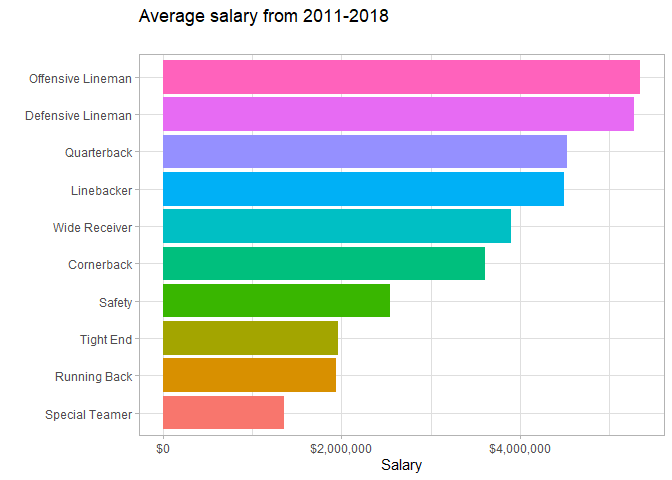
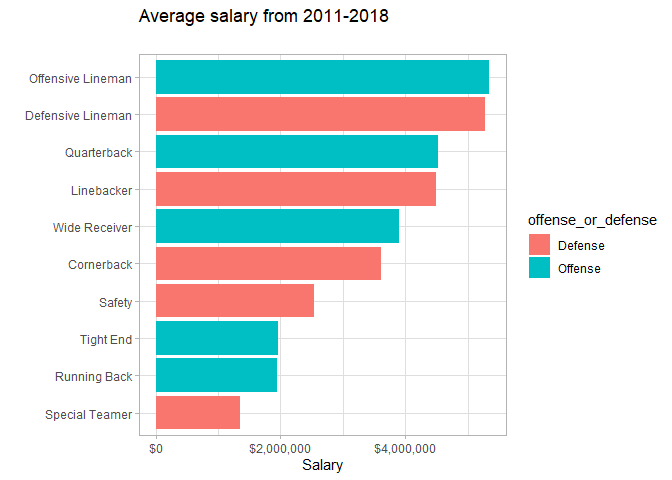
Add line plots showing salary trends by position

diff --git a/nfl-salaries/nfl_salaries.md b/nfl-salaries/nfl_salaries.md
@@ -1,47 +1,15 @@
 
   - [Which positions make the most?](#which-positions-make-the-most)
-  - [How are salaries trending over time for different
-    positions?](#how-are-salaries-trending-over-time-for-different-positions)
-  - [How is the trend different for offensive vs defensive
-    players?](#how-is-the-trend-different-for-offensive-vs-defensive-players)
-  - [](#section)
+  - [How are salaries trending over
+    time?](#how-are-salaries-trending-over-time)
 
 ``` r
+library(rlang)
 library(tidyverse)
-```
-
-    ## -- Attaching packages ------------------------------------------------------------------ tidyverse 1.2.1 --
-
-    ## v ggplot2 3.2.1     v purrr   0.3.3
-    ## v tibble  2.1.3     v dplyr   0.8.3
-    ## v tidyr   1.0.0     v stringr 1.4.0
-    ## v readr   1.3.1     v forcats 0.4.0
-
-    ## -- Conflicts --------------------------------------------------------------------- tidyverse_conflicts() --
-    ## x dplyr::filter() masks stats::filter()
-    ## x dplyr::lag()    masks stats::lag()
-
-``` r
 library(here)
-```
-
-    ## here() starts at D:/Documents/Learning/tidy-tuesdays
-
-``` r
 library(readxl)
 library(scales)
 ```
-
-    ## 
-    ## Attaching package: 'scales'
-
-    ## The following object is masked from 'package:purrr':
-    ## 
-    ##     discard
-
-    ## The following object is masked from 'package:readr':
-    ## 
-    ##     col_factor
 
 ``` r
 theme_set(theme_light())
@@ -51,7 +19,13 @@ theme_set(theme_light())
 nfl_salaries_raw <- read_xlsx(here("nfl-salaries", "nfl_salaries.xlsx"))
 
 nfl_salaries <- read_xlsx(here("nfl-salaries", "nfl_salaries.xlsx")) %>% 
-  pivot_longer(-year, names_to = "position", values_to = "salary")
+  pivot_longer(-year, names_to = "position", values_to = "salary") %>% 
+  mutate(offense_or_defense = case_when(position %in% c("Offensive Lineman",
+                                                        "Quarterback",
+                                                        "Wide Receiver",
+                                                        "Tight End",
+                                                        "Running Back") ~ "Offense",
+                                        TRUE ~ "Defense"))
 ```
 
 -----
@@ -60,35 +34,35 @@ nfl_salaries <- read_xlsx(here("nfl-salaries", "nfl_salaries.xlsx")) %>%
 
 ``` r
 nfl_salaries %>% 
-  group_by(position) %>% 
+  group_by(position, offense_or_defense) %>% 
   summarise(salary = mean(salary, na.rm = TRUE)) %>% 
+  ungroup() %>% 
   mutate(position = fct_reorder(position, salary)) %>% 
-  ggplot(aes(position, salary, fill = position)) + 
+  ggplot(aes(position, salary, fill = offense_or_defense)) + 
   geom_col() +
   scale_y_continuous(labels = dollar_format()) +
   coord_flip() +
   labs(title = "Average salary from 2011-2018", 
        subtitle = "",
        x = "",
-       y = "Salary") +
-  theme(legend.position = "none")
+       y = "Salary") 
 ```
 
 ![](nfl_salaries_files/figure-gfm/positional_salaries_overall-1.png)<!-- -->
 
 -----
 
-# How are salaries trending over time for different positions?
+# How are salaries trending over time?
 
 ``` r
 positional_trends <- nfl_salaries %>% 
-  group_by(year, position) %>% 
+  group_by(year, position, offense_or_defense) %>% 
   summarise(salary = mean(salary, na.rm = TRUE)) 
 ```
 
 ``` r
 overall_trend <- nfl_salaries %>% 
-  group_by(year) %>% 
+  group_by(year, offense_or_defense) %>% 
   summarise(salary = mean(salary, na.rm = TRUE))
 ```
 
@@ -98,20 +72,47 @@ ggplot() +
             mapping = aes(year, salary, color = position), 
             size = 1.5
             ) +
+  geom_point(data = positional_trends, 
+             mapping = aes(year, salary, color = position), 
+             size = 3.0
+            ) +
   geom_path(data = overall_trend, 
             mapping = aes(year, salary), 
-            linetype = "dotted",
+            linetype = "dashed",
             size = 1.5
             ) +
-  scale_y_continuous(label = dollar_format())
+  scale_y_continuous(label = dollar_format()) +
+  labs(title = "Salary trends over time",
+       x = "Year",
+       y = "Average salary")
 ```
 
 ![](nfl_salaries_files/figure-gfm/positional_trends_together-1.png)<!-- -->
 
+And another way to show that same info.
+
+``` r
+positional_trends %>% 
+  ggplot(aes(year, salary, color = offense_or_defense)) + 
+  geom_line() +
+  geom_point() + 
+  facet_wrap(~ position) +
+  scale_y_continuous(labels = dollar_format())
+```
+
+![](nfl_salaries_files/figure-gfm/positional_trends_faceted-1.png)<!-- -->
+
+Grouped by offense and defense.
+
+``` r
+positional_trends %>% 
+  group_by(year, offense_or_defense) %>% 
+  summarise(salary = mean(salary)) %>% 
+  ggplot(aes(year, salary, color = offense_or_defense)) +
+  geom_path(size = 1.5) + 
+  geom_point(size = 3.5)
+```
+
+![](nfl_salaries_files/figure-gfm/offense_defense_trend-1.png)<!-- -->
+
 -----
-
-# How is the trend different for offensive vs defensive players?
-
------
-
-#
